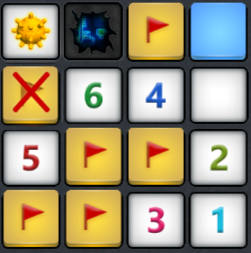
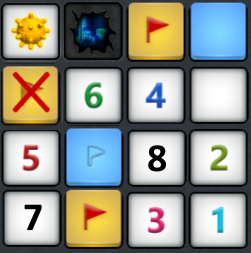
Added flagmode (for touchscreens) + updated cell images

Changed region(s): [[0.251, 0.4704, 0.753, 0.747], [0.0, 0.747, 0.251, 0.996]]

diff --git a/Launcher.ts b/Launcher.ts
@@ -3,6 +3,8 @@
 /// <reference path="Minesweeper.ts" />
 /// <reference path="Solver.ts" />
 
+var _flagMode = false;
+
 var _field: mineField;
 var _solver: minesweeperSolver;
 
@@ -15,6 +17,7 @@ $(() => {
     $('#mediumButton').click(() => initMineField(16, 16, 40, true));
     $('#hardButton').click(() => initMineField(16, 30, 99, true));
     $('#autoplayButton').click(() => autoplay());
+    $('#flagButton').click(() => toggleFlagMode());
 });
 
 function initMineField(rows: number, cols: number, mineCount: number, winable?: boolean) {
@@ -62,6 +65,11 @@ function autoplay() {
     }
 }
 
+function toggleFlagMode() {
+    _flagMode = !_flagMode;
+    showMineField();
+}
+
 function createField(withSafeStart: boolean) {
     var isWinable = false
     do {
@@ -88,10 +96,10 @@ function clickCell(row: number, col: number, event: JQueryMouseEventObject) {
         do {
             createField(false)
         } while (_field.uncoverCell(row, col).neighbourMineCount !== 0 || _field.gameState === gameState.failure)
+    } else if (_flagMode || event.which === 3) {
+        _field.toggleFlagOnCell(row, col);
     } else if (event.which === 1) {
         _field.uncoverCell(row, col);
-    } else if (event.which === 3) {
-        _field.toggleFlagOnCell(row, col);
     } else if (event.which === 2) {
         _field.uncoverNeighbours(row, col);
     }
@@ -127,7 +135,7 @@ function showCell(row: number, col: number, backgroundPosition: string) {
 function getCellContent(state: mineState, neighbourMineCount: number): string {
     switch (state) {
         case mineState.covered:
-            return '-90px 0px';
+            return _flagMode ? '-30px -60px' : '-90px 0px';
         case mineState.uncovered:
             switch (neighbourMineCount) {
                 case 0:
@@ -145,11 +153,11 @@ function getCellContent(state: mineState, neighbourMineCount: number): string {
                 case 6:
                     return '-30px -30px';
                 case 7:
-                    return '-115px -115px';
+                    return '0px -90px';
                 case 8:
-                    return '-115px -115px';
+                    return '-60px -60px';
                 default:
-                    return '-90px 0px';
+                    return '-90px -30px';
             }
         case mineState.mine:
             return '0px 0px';

diff --git a/Minesweeper.html b/Minesweeper.html
@@ -28,6 +28,7 @@
     <button id="mediumButton">Medium</button>
     <button id="hardButton">Hard</button>
     <button id="autoplayButton">Auto play</button>
+    <button id="flagButton">Flag</button>
 
     <table id="mineFieldTable"></table>
 
